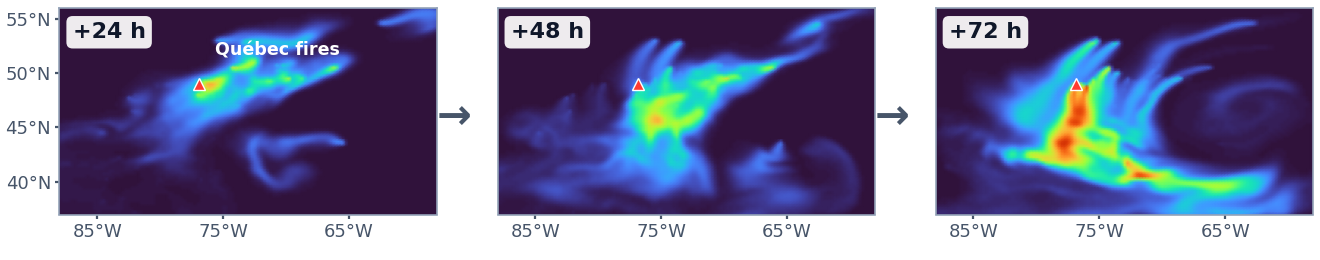
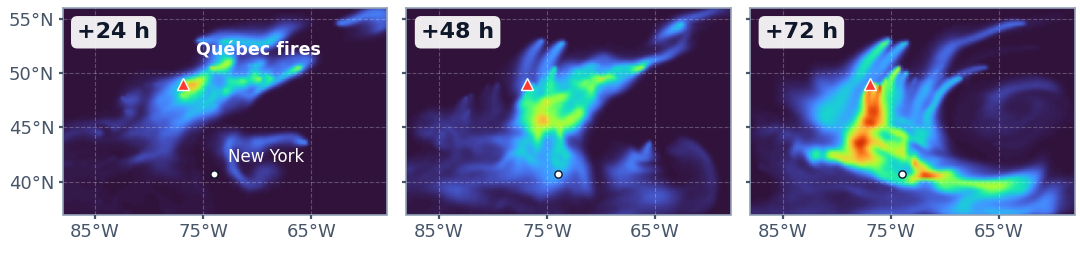
Smoke tile: narrower panels, graticule, New York marker, no arrows
Shrink the figure (6.6->5.4in, display ~650->532px) so the stats chips fit on one row; drop the connecting arrows and tighten panel spacing (wspace 0.16->0.06); add a dashed lat/lon graticule over each map and a New York reference marker with label.

diff --git a/index.html b/index.html
@@ -273,7 +273,7 @@
             <span class="stat"><span class="k">Best rRMSE</span><span class="v good">0.24060</span></span>
           </div>
         </div>
-        <div class="thumb"><img src="./wildfire-smoke/field.png?v=66ef83be" alt="Wildfire Smoke Transport reference solution field" loading="lazy"></div>
+        <div class="thumb"><img src="./wildfire-smoke/field.png?v=9e6f20f1" alt="Wildfire Smoke Transport reference solution field" loading="lazy"></div>
       </a>
 
     </div>